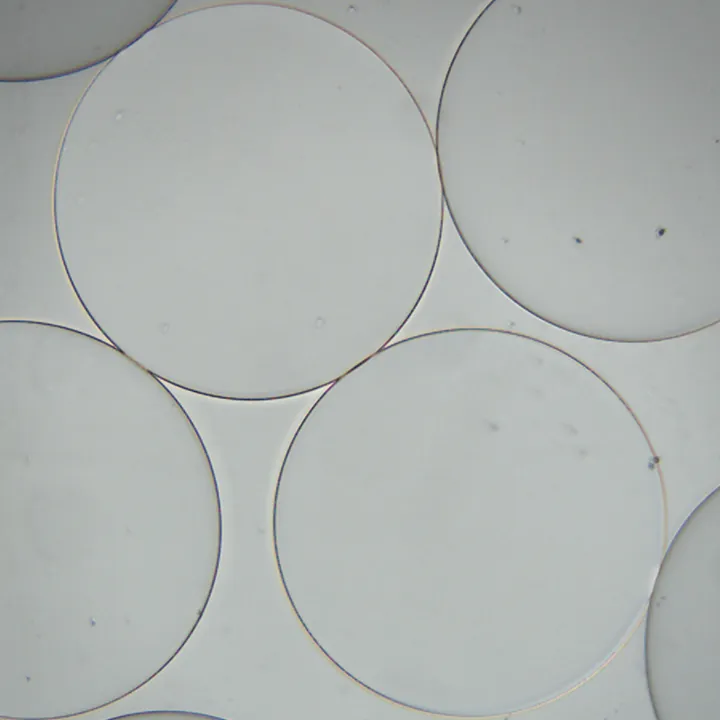
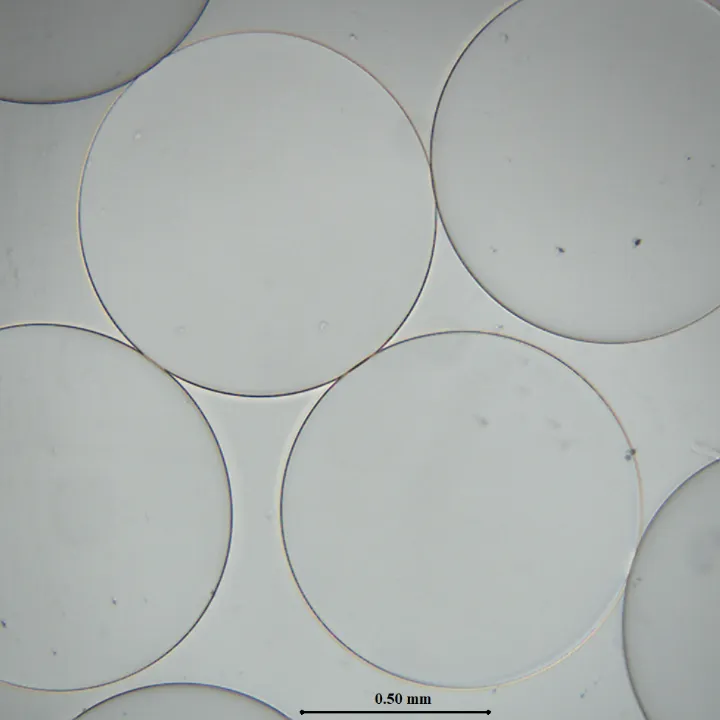
fix(landing): act on the code review of the specimen tray
- Drop `fetchPriority="high"` from the lead frame. react-dom 18.3.1 has no
  such prop (0 occurrences in either casing), so it took the unknown-prop
  branch and logged a React error on every landing-page load in dev. The
  landing tests missed it because src/test/setup.ts stubs console.error.
  A `<link rel="preload">` in index.html was considered and rejected: it
  would fetch the tile on every route, including the dashboard.

- Keep an outline only when its bounding box overlaps the viewBox. The old
  per-vertex test admitted shapes that pass just outside the crop: three of
  the microtubule tile's 23 polylines rendered nothing while still shipping
  path data and consuming a draw-on stagger slot. Now 20.

- Recrop the microcapsule tile (900 -> 978 px) so both whole capsules sit
  clear of the frame edge, and rewrite its caption: the border-cut capsules
  are drawn in the editor's grey, which is invisible against a pale capsule,
  so the copy now says they carry no red outline instead of promising a grey
  one the reader cannot find.

- Sperm alt text said "a sperm cell"; the crop holds two, end to end.

- `model` is now copied from `MODEL_REGISTRY[modelId].name` and pinned by
  specimens.test.ts, which caught that the tile said "Microtubule v5H" where
  the registry says "Microtubule (v5H)". `projectType` is typed as
  `ProjectType` and asserted to be one the model is actually compatible
  with, so the `microtubule` / `microtubules` singular-plural trap becomes a
[…]

diff --git a/src/components/landing/specimens.ts b/src/components/landing/specimens.ts
@@ -15,6 +15,9 @@
  * `landing.specimens.<id>.*` in the translation files, not here.
  */
 
+import type { ModelType } from '@/lib/models/modelRegistry';
+import type { ProjectType } from '@/types';
+
 /** Ids are the tile ids, NOT project types: `disintegration` is the tile for
  *  the `spheroid_invasive` project type. */
 export type SpecimenId =
@@ -37,9 +40,14 @@ export interface Specimen {
   /** Path under /public. */
   readonly image: string;
   /** Model that produced these outlines (`model_used` on the stored result). */
+  readonly modelId: ModelType;
+  /** `MODEL_REGISTRY[modelId].name`, copied so the landing chunk does not have
+   *  to pull the registry in; specimens.test.ts asserts the two still agree. */
   readonly model: string;
-  /** Project type this specimen belongs to, as used by `PROJECT_TYPES`. */
-  readonly projectType: string;
+  /** Project type this specimen belongs to. Typed, so the singular/plural trap
+   *  (`microtubule` the model vs `microtubules` the project type) is a
+   *  compile error rather than a silent mismatch. */
+  readonly projectType: ProjectType;
   readonly outlines: readonly SpecimenOutline[];
 }
 
@@ -47,6 +55,7 @@ export const SPECIMENS: readonly Specimen[] = [
   {
     id: 'spheroid',
     image: '/specimens/spheroid.webp',
+    modelId: 'hrnet',
     model: 'HRNet',
     projectType: 'spheroid',
     outlines: [
@@ -59,6 +68,7 @@ export const SPECIMENS: readonly Specimen[] = [
   {
     id: 'disintegration',
     image: '/specimens/disintegration.webp',
+    modelId: 'spheroid_disintegration',
     model: 'Spheroid Disintegration',
     projectType: 'spheroid_invasive',
     outlines: [
@@ -490,6 +500,7 @@ export const SPECIMENS: readonly Specimen[] = [
   {
     id: 'wound',
     image: '/specimens/wound.webp',
+    modelId: 'wound',
     model: 'Wound Healing',
     projectType: 'wound',
     outlines: [
@@ -518,6 +529,7 @@ export const SPECIMENS: readonly Specimen[] = [
   {
     id: 'sperm',
     image: '/specimens/sperm.webp',
+    modelId: 'sperm',
     model: 'Sperm Morphology',
     projectType: 'sperm',
     outlines: [
@@ -538,16 +550,13 @@ export const SPECIMENS: readonly Specimen[] = [
   {
     id: 'microtubule',
     image: '/specimens/microtubule.webp',
-    model: 'Microtubule v5H',
+    modelId: 'microtubule',
+    model: 'Microtubule (v5H)',
     projectType: 'microtubules',
     outlines: [
       {
         d: 'M153.3 -133.3L114 -97.6L95.1 -84.6L76.2 -66.2L55.2 -50.2L10.4 -10.4L-26.4 27.9L-37.1 35.5L-60.8 59.1L-123.3 128.3',
         stroke: 'hsl(264, 70%, 55%)',
-      },
-      {
-        d: 'M710 -73.3L689.9 -73.4L687.1 -75L677.3 -73.3L660.9 -75L624.1 -75L617.9 -73.3L554.6 -75L489.1 -68.3L457.2 -61.9L405 -55L348.7 -51.7L306.1 -46.7L272.6 -46.7L253.2 -43.5L207.1 -41.7L194.1 -40L178.3 -35',
-        stroke: 'hsl(186, 70%, 55%)',
       },
       {
         d: 'M238.3 45L178.2 28.3L138.4 24.9L100.1 15L93.3 15',
@@ -572,10 +581,6 @@ export const SPECIMENS: readonly Specimen[] = [
       {
         d: 'M550 415L562.4 418.3L598.7 421.7L682.8 435.5L790.6 463.7L826.6 480.1L840.7 489L855.9 506.5L865 524.4L866.7 530.6L866.5 554L860.8 583L828.2 633.5L786.4 676.9L758.7 709.8L732.8 744.1L713.3 775',
         stroke: 'hsl(39, 70%, 55%)',
-      },
-      {
-        d: 'M-1.7 465L-8 463.3L-62.5 461.7L-99.3 458.3L-126.7 458.3',
-        stroke: 'hsl(32, 70%, 55%)',
       },
       {
         d: 'M498.3 475L613.9 590.6L650.8 624.1L669.2 631.7L711.4 638.3L730 645',
@@ -626,44 +631,41 @@ export const SPECIMENS: readonly Specimen[] = [
         d: 'M800 981.7L727.4 981.7L672.3 994.8L652.2 995.1L629.4 998.3L542.2 1015L456.7 1038.3',
         stroke: 'hsl(157, 70%, 55%)',
       },
-      {
-        d: 'M913.3 1041.7L953.9 1041.6L1013.1 1033.3L1054.9 1025.1L1065 1025',
-        stroke: 'hsl(332, 70%, 55%)',
-      },
     ],
   },
   {
     id: 'microcapsule',
     image: '/specimens/microcapsule.webp',
+    modelId: 'microcapsule',
     model: 'Microcapsule',
     projectType: 'microcapsule',
     outlines: [
       {
-        d: 'M853.3 -78.9L791.1 -66.7L736.7 -41.1L706.7 -18.9L673.3 14.4L640 63.3L621.1 107.8L610 152.2L608.9 204.4L614.4 253.3L625.6 294.4L651.1 345.6L687.8 393.3L740 434.4L770 450L823.3 467.8L864.4 473.3L923.3 471.1L966.7 460L1000 445.6L1041.1 420L1082.2 382.2L1107.8 348.9L1133.3 297.8L1148.9 240L1148.9 163.3L1141.1 116.7L1122.2 66.7L1093.3 22.2L1048.9 -23.3L1000 -55.6L960 -70L908.9 -78.9Z',
+        d: 'M825.2 -32.7L767.9 -21.5L717.8 2L690.2 22.5L659.5 53.2L628.8 98.2L611.5 139.1L601.2 180L600.2 228L605.3 273L615.5 310.8L639.1 357.9L672.8 401.8L720.9 439.7L748.5 454L797.5 470.3L835.4 475.5L889.6 473.4L929.4 463.2L960.1 449.9L998 426.4L1035.8 391.6L1059.3 360.9L1082.8 313.9L1097.1 260.7L1097.1 190.2L1090 147.2L1072.6 101.2L1046 60.3L1005.1 18.4L960.1 -11.2L923.3 -24.5L876.3 -32.7Z',
         stroke: '#969696',
       },
       {
-        d: 'M-7.8 447.8L-74.4 463.3L-112.2 482.2L-156.7 517.8L-186.7 552.2L-215.6 603.3L-226.7 636.7L-232.2 682.2L-231.1 747.8L-215.6 813.3L-196.7 854.4L-182.2 878.9L-130 934.4L-101.1 956.7L-54.4 980L-20 991.1L23.3 997.8L66.7 997.8L126.7 986.7L182.2 961.1L222.2 931.1L252.2 897.8L277.8 856.7L300 794.4L305.6 745.6L300 674.4L288.9 637.8L266.7 588.9L234.4 544.4L202.2 515.6L155.6 482.2L108.9 462.2L41.1 447.8Z',
+        d: 'M32.7 451.9L-28.6 466.3L-63.4 483.6L-104.3 516.4L-131.9 548.1L-158.5 595.1L-168.7 625.8L-173.8 667.7L-172.8 728L-158.5 788.3L-141.1 826.2L-127.8 848.7L-79.8 899.8L-53.2 920.2L-10.2 941.7L21.5 951.9L61.3 958.1L101.2 958.1L156.4 947.9L207.6 924.3L244.4 896.7L272 866.1L295.5 828.2L316 771L321.1 726L316 660.5L305.7 626.8L285.3 581.8L255.6 540.9L183 483.6L140.1 465.2L77.7 451.9Z',
         stroke: '#969696',
       },
       {
-        d: 'M324.4 6.7L258.9 18.9L232.2 30L181.1 63.3L142.2 96.7L103.3 155.6L92.2 181.1L81.1 225.6L76.7 266.7L84.4 348.9L110 412.2L140 456.7L184.4 497.8L223.3 523.3L278.9 545.6L324.4 553.3L372.2 553.3L437.8 538.9L471.1 523.3L533.3 478.9L567.8 437.8L588.9 401.1L607.8 345.6L613.3 304.4L611.1 257.8L600 192.2L577.8 143.3L555.6 111.1L525.6 77.8L475.6 41.1L430 18.9L374.4 6.7Z',
+        d: 'M338.4 46L278.1 57.3L253.6 67.5L206.5 98.2L170.8 128.8L135 183L124.7 206.5L114.5 247.4L110.4 285.3L117.6 360.9L141.1 419.2L168.7 460.1L209.6 498L245.4 521.5L296.5 541.9L338.4 549.1L382.4 549.1L442.7 535.8L473.4 521.5L530.7 480.6L562.4 442.7L581.8 409L599.2 357.9L604.3 320L602.2 277.1L592 216.8L571.6 171.8L551.1 142.1L523.5 111.5L477.5 77.7L435.6 57.3L384.5 46Z',
         stroke: '#ef4444',
       },
       {
-        d: 'M632.2 458.9L586.7 466.7L532.2 487.8L525.6 495.6L476.7 525.6L447.8 552.2L414.4 598.9L395.6 641.1L384.4 685.6L381.1 734.4L395.6 812.2L414.4 854.4L446.7 901.1L473.3 927.8L534.4 967.8L590 986.7L640 994.4L702.2 991.1L750 978.9L797.8 956.7L831.1 932.2L885.6 868.9L891.1 846.7L904.4 820L923.3 743.3L922.2 691.1L907.8 630L890 593.3L856.7 547.8L822.2 515.6L774.4 485.6L724.4 466.7L678.9 458.9Z',
+        d: 'M621.7 462.2L579.8 469.3L529.7 488.8L478.5 523.5L451.9 548.1L421.3 591L403.9 629.9L393.7 670.8L390.6 715.7L403.9 787.3L421.3 826.2L450.9 869.1L475.5 893.7L531.7 930.5L582.8 947.9L628.8 955L686.1 951.9L730.1 940.7L774 920.2L804.7 897.8L854.8 839.5L859.9 819L872.2 794.5L889.6 723.9L888.5 675.9L875.3 619.6L858.9 585.9L828.2 544L796.5 514.3L752.6 486.7L706.5 469.3L664.6 462.2Z',
         stroke: '#ef4444',
       },
       {
-        d: 'M1147.8 624.4L1076.7 636.7L1024.4 660L998.9 677.8L961.1 715.6L928.9 763.3L902.2 848.9L898.9 931.1L914.4 1001.1L936.7 1043.3L962.2 1040L1156.7 1043.3L1168.9 1035.6L1168.9 626.7L1157.8 624.4Z',
+        d: 'M1096.1 614.5L1030.7 625.8L982.6 647.2L959.1 663.6L924.3 698.4L894.7 742.3L870.1 821.1L867.1 896.7L881.4 961.1L901.8 1000L925.4 996.9L1104.3 1000L1115.5 992.8L1115.5 616.6L1105.3 614.5Z',
         stroke: '#969696',
       },
       {
-        d: 'M267.8 -92.2L208.9 -88.9L-235.6 -88.9L-237.8 -80L-212.2 -20L-182.2 23.3L-156.7 48.9L-126.7 71.1L-83.3 93.3L-51.1 104.4L-7.8 112.2L37.8 112.2L86.7 104.4L130 90L182.2 60L195.6 46.7L212.2 37.8L255.6 -13.3L277.8 -54.4L286.7 -83.3L283.3 -92.2Z',
+        d: 'M286.3 -45L232.1 -41.9L-176.9 -41.9L-178.9 -33.7L-155.4 21.5L-127.8 61.3L-104.3 84.9L-76.7 105.3L-36.8 125.8L-7.2 136L32.7 143.1L74.6 143.1L119.6 136L159.5 122.7L207.6 95.1L235.2 74.6L275.1 27.6L295.5 -10.2L303.7 -36.8L300.6 -45Z',
         stroke: '#969696',
       },
       {
-        d: 'M208.9 988.9L132.2 1007.8L84.4 1030L71.1 1044.4L388.9 1044.4L390 1041.1L371.1 1026.7L334.4 1007.8L286.7 993.3L252.2 988.9Z',
+        d: 'M232.1 949.9L161.6 967.3L117.6 987.7L105.3 1001L397.8 1001L398.8 998L381.4 984.7L347.6 967.3L303.7 954L272 949.9Z',
         stroke: '#969696',
       },
     ],

diff --git a/src/components/landing/__tests__/specimens.test.ts b/src/components/landing/__tests__/specimens.test.ts
@@ -1,0 +1,75 @@
+/**
+ * `specimens.ts` is generated, and the two things it copies out of other
+ * modules are exactly the two that can rot silently: the model's display name
+ * and the project type it belongs to. Both are pinned here against their
+ * single sources of truth, so a rename in the registry turns this red instead
+ * of leaving the landing page quoting a name the product no longer uses.
+ */
+import { describe, it, expect } from 'vitest';
+import { SPECIMENS, SPECIMEN_IDS } from '../specimens';
+import { MODEL_REGISTRY } from '@/lib/models/modelRegistry';
+import { PROJECT_TYPES } from '@/types';
+import en from '@/translations/en';
+
+describe('landing specimens', () => {
+  it('quotes each model by the name in MODEL_REGISTRY', () => {
+    for (const specimen of SPECIMENS) {
+      expect(MODEL_REGISTRY[specimen.modelId].name).toBe(specimen.model);
+    }
+  });
+
+  it('pairs each specimen with a project type the model can actually run on', () => {
+    for (const specimen of SPECIMENS) {
+      expect(PROJECT_TYPES).toContain(specimen.projectType);
+      expect(
+        MODEL_REGISTRY[specimen.modelId]
+          .compatibleProjectTypes as readonly string[]
+      ).toContain(specimen.projectType);
+    }
+  });
+
+  it('has a label, a detail line and alt text for every tile', () => {
+    for (const id of SPECIMEN_IDS) {
+      const copy = en.landing.specimens[id];
+      expect(copy.label.length).toBeGreaterThan(0);
+      expect(copy.detail.length).toBeGreaterThan(0);
+      // Alt text is the only description a screen reader gets of a scientific
+      // image, so a stub is worse than useless.
+      expect(copy.alt.length).toBeGreaterThan(40);
+    }
+  });
+
+  it('carries only outlines that fall inside the tile', () => {
+    for (const specimen of SPECIMENS) {
+      expect(specimen.outlines.length).toBeGreaterThan(0);
+      for (const outline of specimen.outlines) {
+        const numbers = outline.d.match(/-?\d+(\.\d+)?/g)?.map(Number) ?? [];
+        const xs = numbers.filter((_, i) => i % 2 === 0);
+        const ys = numbers.filter((_, i) => i % 2 === 1);
+        // Bounding box must overlap the 1000x1000 viewBox, otherwise the path
+        // ships bytes and takes a draw-on slot while rendering nothing.
+        expect(Math.max(...xs)).toBeGreaterThanOrEqual(0);
+        expect(Math.min(...xs)).toBeLessThanOrEqual(1000);
+        expect(Math.max(...ys)).toBeGreaterThanOrEqual(0);
+        expect(Math.min(...ys)).toBeLessThanOrEqual(1000);
+      }
+    }
+  });
+
+  it('uses the stroke colours the segmentation editor draws', () => {
+    const EDITOR_COLOURS = new Set([
+      '#ef4444', // external contour
+      '#0ea5e9', // internal contour
+      '#22c55e', // spheroid core / sperm head
+      '#f59e0b', // sperm midpiece
+      '#06b6d4', // sperm tail
+      '#969696', // border-cut microcapsule, excluded from metrics
+    ]);
+    for (const specimen of SPECIMENS) {
+      for (const outline of specimen.outlines) {
+        const isTrackHue = /^hsl\(\d{1,3}, 70%, 55%\)$/.test(outline.stroke);
+        expect(isTrackHue || EDITOR_COLOURS.has(outline.stroke)).toBe(true);
+      }
+    }
+  });
+});

diff --git a/src/translations/fr.ts b/src/translations/fr.ts
@@ -120,7 +120,7 @@ export default {
         label: 'Morphologie des spermatozoïdes',
         detail:
           'Fond clair, 1360 × 1024. Chaque cellule est tracée par trois polylignes plutôt que par une seule forme — tête en vert, pièce intermédiaire en ambre, flagelle en cyan — pour que chaque segment se mesure séparément.',
-        alt: "Micrographie en fond clair d'un spermatozoïde tracé par trois polylignes colorées : tête verte, pièce intermédiaire ambre, flagelle cyan.",
+        alt: 'Micrographie en fond clair de deux spermatozoïdes, chacun tracé par trois polylignes colorées : tête verte, pièce intermédiaire ambre, flagelle cyan.',
       },
       microtubule: {
         label: 'Filaments de microtubules',
@@ -131,8 +131,8 @@ export default {
       microcapsule: {
         label: 'Microcapsules',
         detail:
-          "Fond clair, 1280 × 1024. Les capsules entières sont détourées en rouge et mesurées ; celles que le bord de l'image coupe sont grisées et écartées des statistiques.",
-        alt: "Micrographie en fond clair de microcapsules : les capsules entières détourées en rouge, celles coupées par le bord de l'image grisées.",
+          "Fond clair, 1280 × 1024. Deux capsules entières sont détourées en rouge : ce sont celles qui reçoivent une surface, un périmètre et une compacité. Les capsules que le bord de l'image coupe n'ont pas de contour rouge ; le modèle les signale et les statistiques les écartent.",
+        alt: "Micrographie en fond clair de microcapsules : les deux capsules entières détourées en rouge, celles coupées par le bord de l'image sans contour.",
       },
     },
     about: {

diff --git a/src/translations/es.ts b/src/translations/es.ts
@@ -120,7 +120,7 @@ export default {
         label: 'Morfología espermática',
         detail:
           'Campo claro, 1360 × 1024. Cada célula se traza como tres polilíneas en vez de una sola mancha —cabeza en verde, pieza intermedia en ámbar, cola en cian— para poder medir cada segmento por separado.',
-        alt: 'Micrografía de campo claro de un espermatozoide trazado por tres polilíneas de color: cabeza verde, pieza intermedia ámbar, cola cian.',
+        alt: 'Micrografía de campo claro de dos espermatozoides, cada uno trazado por tres polilíneas de color: cabeza verde, pieza intermedia ámbar, cola cian.',
       },
       microtubule: {
         label: 'Filamentos de microtúbulos',
@@ -131,8 +131,8 @@ export default {
       microcapsule: {
         label: 'Microcápsulas',
         detail:
-          'Campo claro, 1280 × 1024. Las cápsulas completas se delinean en rojo y se miden; las que corta el borde del fotograma se muestran en gris y quedan fuera de las estadísticas.',
-        alt: 'Micrografía de campo claro de microcápsulas, las completas delineadas en rojo y las cortadas por el borde en gris.',
+          'Campo claro, 1280 × 1024. Dos cápsulas completas están delineadas en rojo: son las que reciben área, perímetro y compacidad. Las cápsulas que corta el borde del fotograma no llevan contorno rojo; el modelo las marca y las estadísticas las dejan fuera.',
+        alt: 'Micrografía de campo claro de microcápsulas, las dos completas delineadas en rojo y las cortadas por el borde del fotograma sin contorno.',
       },
     },
     about: {

diff --git a/src/translations/de.ts b/src/translations/de.ts
@@ -120,7 +120,7 @@ export default {
         label: 'Spermienmorphologie',
         detail:
           'Hellfeld, 1360 × 1024. Jede Zelle wird als drei Polylinien statt als eine Fläche geführt — Kopf grün, Mittelstück bernsteinfarben, Schwanz cyan — damit sich jeder Abschnitt einzeln vermessen lässt.',
-        alt: 'Hellfeldaufnahme eines Spermiums, nachgezeichnet von drei farbigen Polylinien: grüner Kopf, bernsteinfarbenes Mittelstück, cyanfarbener Schwanz.',
+        alt: 'Hellfeldaufnahme zweier Spermien, jedes nachgezeichnet von drei farbigen Polylinien: grüner Kopf, bernsteinfarbenes Mittelstück, cyanfarbener Schwanz.',
       },
       microtubule: {
         label: 'Mikrotubuli-Filamente',
@@ -131,8 +131,8 @@ export default {
       microcapsule: {
         label: 'Mikrokapseln',
         detail:
-          'Hellfeld, 1280 × 1024. Vollständige Kapseln werden rot umrissen und vermessen; vom Bildrand angeschnittene Kapseln werden grau dargestellt und aus der Statistik herausgehalten.',
-        alt: 'Hellfeldaufnahme von Mikrokapseln, die vollständigen rot umrissen, die vom Bildrand angeschnittenen grau.',
+          'Hellfeld, 1280 × 1024. Zwei vollständige Kapseln sind rot umrissen — für genau diese gibt es Fläche, Umfang und Kompaktheit. Die vom Bildrand angeschnittenen Kapseln tragen keinen roten Umriss: das Modell markiert sie, und die Statistik lässt sie weg.',
+        alt: 'Hellfeldaufnahme von Mikrokapseln, die zwei vollständigen rot umrissen, die vom Bildrand angeschnittenen ohne Umriss.',
       },
     },
     about: {

diff --git a/src/translations/cs.ts b/src/translations/cs.ts
@@ -119,7 +119,7 @@ export default {
         label: 'Morfologie spermií',
         detail:
           'Světlé pole, 1360 × 1024. Každá buňka je vedena jako tři lomené čáry místo jedné plochy — hlavička zeleně, krček oranžově, bičík azurově — takže každý úsek lze změřit zvlášť.',
-        alt: 'Snímek spermie ve světlém poli, vedená třemi barevnými lomenými čarami: zelená hlavička, oranžový krček, azurový bičík.',
+        alt: 'Snímek dvou spermií ve světlém poli, každá vedená třemi barevnými lomenými čarami: zelená hlavička, oranžový krček, azurový bičík.',
       },
       microtubule: {
         label: 'Vlákna mikrotubulů',
@@ -130,8 +130,8 @@ export default {
       microcapsule: {
         label: 'Mikrokapsle',
         detail:
-          'Světlé pole, 1280 × 1024. Celé kapsle jsou obtaženy červeně a měří se; kapsle uříznuté okrajem snímku jsou šedé a do statistik nevstupují.',
-        alt: 'Snímek mikrokapslí ve světlém poli, celé kapsle obtažené červeně, kapsle uříznuté okrajem šedě.',
+          'Světlé pole, 1280 × 1024. Dvě celé kapsle jsou obtaženy červeně — právě u nich se počítá plocha, obvod a kompaktnost. Kapsle uříznuté okrajem snímku červený obrys nemají: model je označí a do statistik nevstupují.',
+        alt: 'Snímek mikrokapslí ve světlém poli, dvě celé kapsle obtažené červeně, kapsle uříznuté okrajem snímku bez obrysu.',
       },
     },
     about: {

diff --git a/src/translations/en.ts b/src/translations/en.ts
@@ -126,7 +126,7 @@ export default {
         label: 'Sperm morphology',
         detail:
           'Bright-field, 1360 × 1024. Each cell is traced as three polylines instead of one blob — head in green, midpiece in amber, tail in cyan — so every segment can be measured on its own.',
-        alt: 'Bright-field micrograph of a sperm cell traced by three coloured polylines: green head, amber midpiece, cyan tail.',
+        alt: 'Bright-field micrograph of two sperm cells, each traced by three coloured polylines: green head, amber midpiece, cyan tail.',
       },
       microtubule: {
         label: 'Microtubule filaments',
@@ -137,8 +137,8 @@ export default {
       microcapsule: {
         label: 'Microcapsules',
         detail:
-          'Bright-field, 1280 × 1024. Whole capsules are outlined in red and measured; the ones the frame cuts off are greyed out and left out of the statistics.',
-        alt: 'Bright-field micrograph of microcapsules, the whole ones outlined in red and the border-cut ones greyed out.',
+          'Bright-field, 1280 × 1024. Two whole capsules are outlined in red — those are the ones that get an area, a perimeter and a compactness. The capsules the frame cuts off carry no red outline: the model flags them and the statistics leave them out.',
+        alt: 'Bright-field micrograph of microcapsules, the two whole ones outlined in red and the ones cut off by the frame edge left without an outline.',
       },
     },
     about: {

diff --git a/src/translations/zh.ts b/src/translations/zh.ts
@@ -119,7 +119,7 @@ export default {
         label: '精子形态',
         detail:
           '明场，1360 × 1024。每个细胞用三条折线而非一个整块来描画——头部绿色、中段琥珀色、尾部青色——因此每一段都能单独测量。',
-        alt: '精子的明场显微图像，由三条彩色折线描画：绿色头部、琥珀色中段、青色尾部。',
+        alt: '两个精子的明场显微图像，每个都由三条彩色折线描画：绿色头部、琥珀色中段、青色尾部。',
       },
       microtubule: {
         label: '微管纤维',
@@ -130,8 +130,8 @@ export default {
       microcapsule: {
         label: '微胶囊',
         detail:
-          '明场，1280 × 1024。完整的胶囊以红色勾出并参与测量；被画面边缘截断的胶囊显示为灰色，不计入统计。',
-        alt: '微胶囊的明场显微图像，完整胶囊以红色勾出，被边缘截断的显示为灰色。',
+          '明场，1280 × 1024。两个完整的胶囊以红色勾出——面积、周长和圆整度只对它们计算。被画面边缘截断的胶囊没有红色轮廓：模型会标记它们，统计也会把它们排除在外。',
+        alt: '微胶囊的明场显微图像，两个完整胶囊以红色勾出，被画面边缘截断的没有轮廓。',
       },
     },
     about: {

diff --git a/src/components/landing/SpecimenShowcase.tsx b/src/components/landing/SpecimenShowcase.tsx
@@ -156,7 +156,6 @@ function SpecimenShowcase() {
             height={720}
             className="h-full w-full object-cover"
             decoding="async"
-            fetchPriority="high"
           />
           <OutlineLayer
             key={`outlines-${active.id}`}
